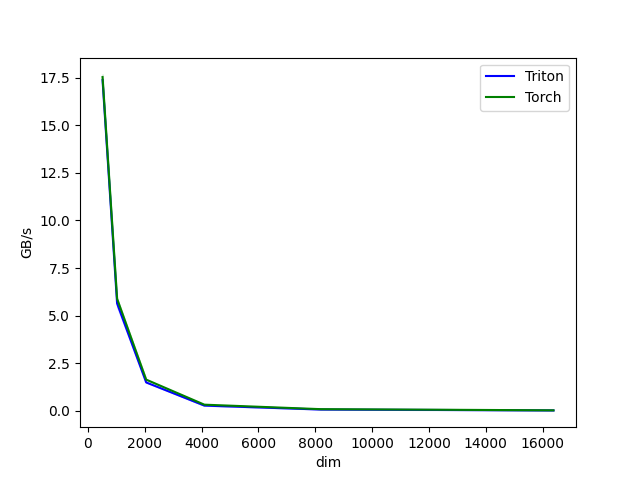
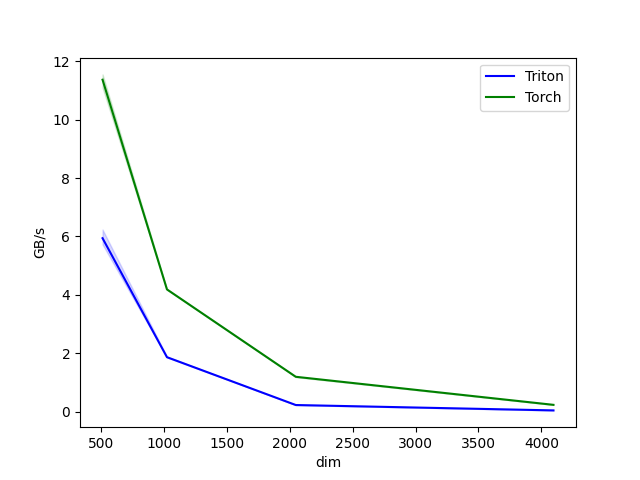
debug dim

diff --git a/results.html b/results.html
@@ -1,2 +1,3 @@
 <html><body>
+<image src="SwiGLU.png"/>
 </body></html>

diff --git a/SwiGLU.py b/SwiGLU.py
@@ -240,7 +240,7 @@ class SwiGLU(torch.autograd.Function):
     _swiglu_forward[grid](x,w1.transpose(1,0).contiguous(),w2.transpose(1,0).contiguous(),o,z1,z2,g1,g2,
                           M,N,K,
                           stridexm=x.stride(0), stridexk=x.stride(1),
-                          stridewk=w1.stride(0), stridewn=w1.stride(1),
+                          stridewk=w1.stride(1), stridewn=w1.stride(0), #wk transposed
                           strideom=o.stride(0), strideon=o.stride(1))
 
     ctx.save_for_backward(x,z1,z2,g1,g2)
@@ -268,7 +268,7 @@ class SwiGLU(torch.autograd.Function):
                            z1,z2,g1,g2,
                            ctx.M,ctx.N,ctx.K,
                            stridexm=x.stride(0), stridexk=x.stride(1),
-                           stridewk=dw1.stride(0), stridewn=dw1.stride(1),
+                           stridewk=dw1.stride(1), stridewn=dw1.stride(0), # stride transposed 
                            stridezm=z1.stride(0),stridezn=z1.stride(1))
     # print("complete backward")
     return None, dw1, dw2
@@ -313,7 +313,6 @@ def test(x, do, dim, hidden_dim):
     assert torch.allclose(swiglu_triton.w2.weight, swiglu_pytorch.w2.weight, rtol=1e-03, atol=1e-05, equal_nan=True), "forward w2 discripency"
     
     out_triton=swiglu_triton(x)
-    torch.cuda.synchronize()
     out_torch=swiglu_pytorch(x)
     torch.cuda.synchronize()
     print("out_triton",out_triton.shape, out_triton[:4,:4])
@@ -333,8 +332,8 @@ def test(x, do, dim, hidden_dim):
     triton.testing.Benchmark(
         x_names=['dim', 'hidden_dim'],
         x_vals=[
-            (d, int(d))
-            for d in [512, 1024, 2048, 4096, 8192, 16384]
+            (d, int(d*2/3))
+            for d in [512, 1024, 2048, 4096]
         ],
         line_arg='provider',
         line_vals=['triton', 'torch'],
@@ -352,11 +351,10 @@ def test(x, do, dim, hidden_dim):
 def bench_swiglu(batch_size, seq_len, dim, hidden_dim, provider, device, quantiles):
     def fwd_bwd():
         if provider == "triton":
-            x=torch.randn((batch_size*seq_len, dim),device=device)
-            do=torch.randn((batch_size*seq_len, hidden_dim),device=device)
+            x=torch.randn(batch_size*seq_len, dim, device=device)
+            do=torch.randn(batch_size*seq_len, hidden_dim, device=device)
             swiglu_triton=SwiGLU_Layer_Triton(dim, hidden_dim).to(device)
             out_triton=swiglu_triton(x)
-            torch.cuda.synchronize()
             out_triton.backward(do, retain_graph=True)
             torch.cuda.synchronize()
 
@@ -366,7 +364,6 @@ def bench_swiglu(batch_size, seq_len, dim, hidden_dim, provider, device, quantil
             do=torch.randn((batch_size*seq_len, hidden_dim),device=device)
             swiglu_pytorch=SwiGLU_Layer_Pytorch(dim, hidden_dim).to(device)
             out_torch=swiglu_pytorch(x)
-            torch.cuda.synchronize()
             out_torch.backward(do, retain_graph=True)
             torch.cuda.synchronize()
         return
@@ -385,12 +382,12 @@ if __name__ == "__main__":
     
     batch_size=16
     seq_len=1024
-    dim=1024
-    hidden_dim=512
-    # print("hidden_dim", hidden_dim)
+    dim=512
+    hidden_dim=int(dim*2/3)
+    print("hidden_dim", hidden_dim)
     
     x=torch.randn(batch_size*seq_len, dim, device=DEVICE)
     do=torch.randn(batch_size*seq_len, hidden_dim, device=DEVICE)
-    test(x, do, dim, hidden_dim)
+    # test(x, do, dim, hidden_dim)
     
-    # bench_swiglu.run(save_path=".", show_plots=True, print_data=True)
+    bench_swiglu.run(save_path=".", show_plots=True, print_data=True)
